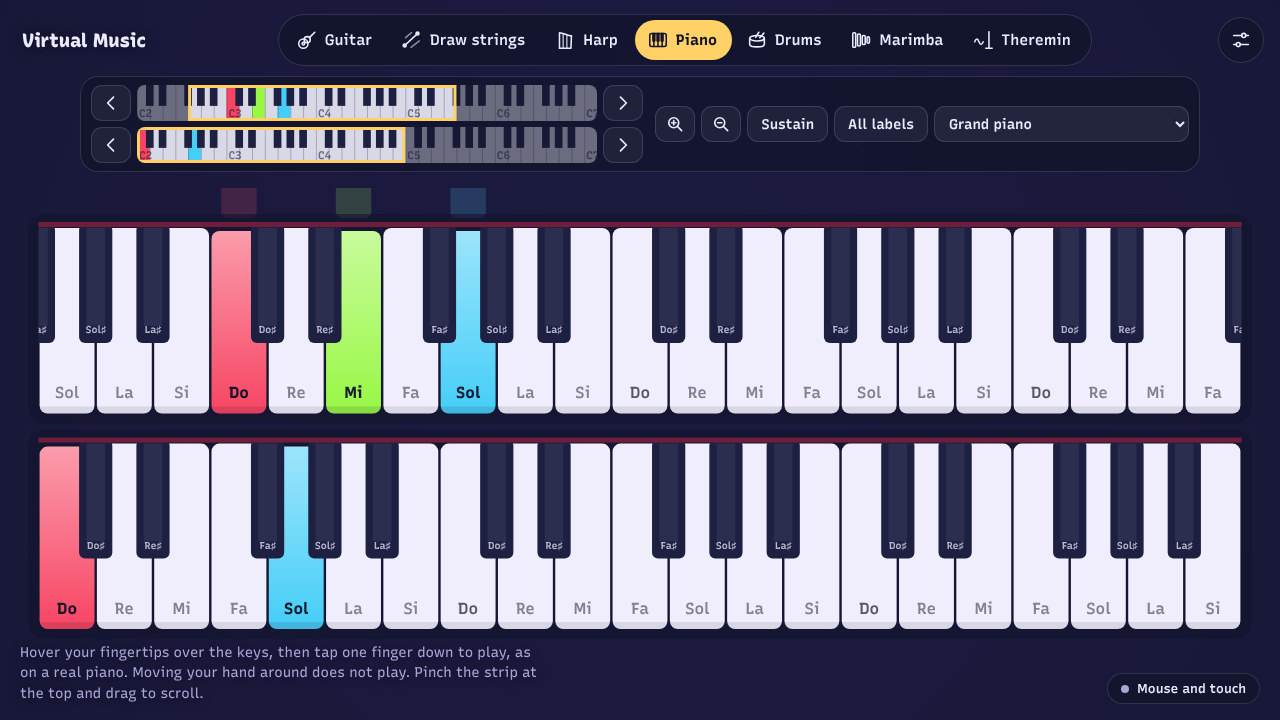
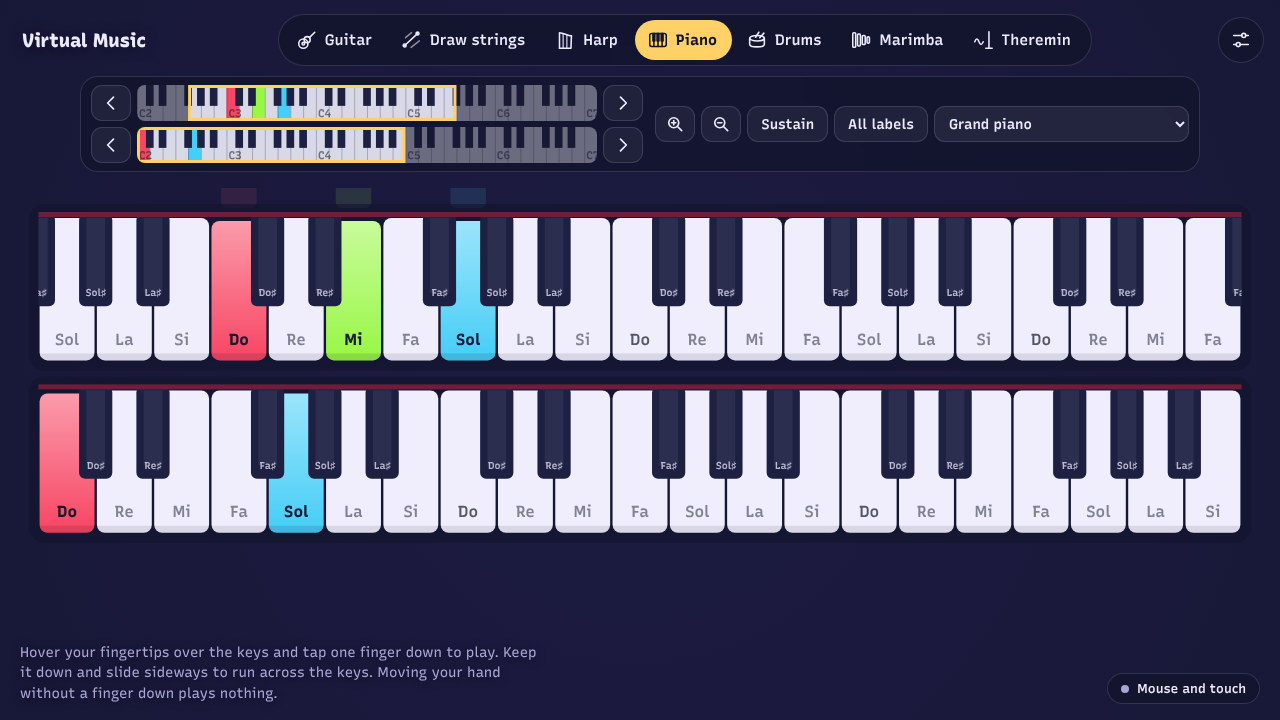
:sparkles: piano updated

Changed region(s): [[0.0, 0.3972, 0.9688, 0.9778], [0.0312, 0.275, 0.9688, 0.3361]]

diff --git a/src/instruments/piano.js b/src/instruments/piano.js
@@ -26,7 +26,7 @@ export class Piano extends Instrument {
   static id = 'piano';
   static label = 'Piano';
   static icon = '<rect x="3" y="5" width="18" height="14" rx="2"/><path d="M7.5 13v6M12 13v6M16.5 13v6"/><path d="M6.5 5h2v8h-2zM11 5h2v8h-2zM15.5 5h2v8h-2z" fill="currentColor"/>';
-  static hint = 'Hover your fingertips over the keys, then tap one finger down to play, as on a real piano. Moving your hand around does not play. Pinch the strip at the top and drag to scroll.';
+  static hint = 'Hover your fingertips over the keys and tap one finger down to play. Keep it down and slide sideways to run across the keys. Moving your hand without a finger down plays nothing.';
   static settings = [
     { key: 'sound', label: 'Sound', type: 'select', options: SOUND_OPTIONS, default: 'grand' },
     { key: 'mode', label: 'Layout', type: 'select', options: [['single', 'One keyboard'], ['double', 'Two keyboards, stacked']], default: 'single' },
@@ -34,6 +34,8 @@ export class Piano extends Instrument {
     { key: 'size', label: 'Keyboard size', type: 'select', options: [[49, '49 keys (C2 to C6)'], [61, '61 keys (C2 to C7)'], [76, '76 keys (E1 to G7)'], [88, '88 keys (A0 to C8)']], default: 61 },
     { key: 'labels', label: 'Key labels', type: 'select', options: LABEL_CYCLE.map((k) => [k, { off: 'Off', c: 'C keys only', white: 'White keys', all: 'All keys' }[k]]), default: 'c' },
     { key: 'notation', label: 'Label style', type: 'select', options: [['octave', 'C4, D4, E4'], ['letters', 'C, D, E'], ['solfege', 'Do, Re, Mi']], default: 'octave' },
+    { key: 'position', label: 'Keyboard position', type: 'select', options: [['high', 'Higher up'], ['middle', 'Middle (recommended for the camera)'], ['low', 'Bottom of the screen']], default: 'middle' },
+    { key: 'gliss', label: 'Slide a pressed finger to run across the keys', type: 'toggle', default: true },
     { key: 'press', label: 'Press keys by', type: 'select', options: [['tap', 'Tapping a finger down (recommended)'], ['dip', 'Lowering fingertips into the keys']], default: 'tap' },
     { key: 'fingers', label: 'Play with', type: 'select', options: [['all', 'All five fingers'], ['four', 'Four fingers, no thumbs'], ['index', 'Index fingers only']], default: 'all' },
     { key: 'sensitivity', label: 'Tap sensitivity', type: 'range', min: 0.5, max: 2, step: 0.05, default: 1 },
@@ -104,14 +106,20 @@ export class Piano extends Instrument {
     const st = this.stage;
     const top = navBottom + 16;
     const x = this.W * 0.03, w = this.W * 0.94;
-    const bottom = st.bottom - 6;
+    // Middle keeps the keyboard where hands rest comfortably in front of a laptop camera,
+    // with room below the keys so whole hands, wrists included, stay in view.
+    const pos = this.opts.position || 'middle';
+    const limit = st.bottom - 6;
+    const bottom = pos === 'low' ? limit : Math.min(limit, this.H * (pos === 'high' ? 0.62 : 0.74));
     if (this.rows.length === 1) {
-      const h = clamp(Math.min(this.H * 0.34, bottom - top - 70), 110, 300);
-      this.rows[0].setRect(x, bottom - h, w, h);
+      const h = clamp(Math.min(this.H * 0.3, bottom - top - 40), 100, 280);
+      const b = Math.min(limit, Math.max(bottom, top + 40 + h));
+      this.rows[0].setRect(x, b - h, w, h);
     } else {
-      const h = clamp((bottom - top - 40 - 30) / 2, 80, 230);
-      this.rows[1].setRect(x, bottom - h, w, h);
-      this.rows[0].setRect(x, bottom - h - 30 - h, w, h);
+      const h = clamp((bottom - top - 30 - 30) / 2, 80, 220);
+      const b = Math.min(limit, Math.max(bottom, top + 30 + 2 * h + 30));
+      this.rows[1].setRect(x, b - h, w, h);
+      this.rows[0].setRect(x, b - h - 30 - h, w, h);
     }
     this.trailTop = top;
   }
@@ -397,6 +405,29 @@ export class Piano extends Instrument {
     }
   }
 
+  /**
+   * Glissando: a pressed finger sliding sideways plays every key it passes, staying on the
+   * colour it started on (white keys, or black keys), as on a real piano. A little
+   * hysteresis at key edges stops a resting finger from flickering between two keys.
+   */
+  slide(fk, row, x, t) {
+    const cur = row.byMidi.get(fk.midi);
+    if (cur && Math.abs(x - row.centerX(cur)) < row.keyRect(cur).w * 0.62) return;
+    const k = fk.white ? row.whiteAt(x) : row.blackAt(x);
+    if (!k || k.midi === fk.midi) return;
+    const dir = Math.sign(k.midi - fk.midi);
+    for (let m = fk.midi + dir; m !== k.midi; m += dir) {
+      const passed = row.byMidi.get(m);
+      if (!passed || passed.white !== fk.white) continue;
+      this.noteOn(fk.row, m, fk.vel * 0.9, t);
+      this.noteOff(fk.row, m, t);
+    }
+    this.noteOff(fk.row, fk.midi, t);
+    this.noteOn(fk.row, k.midi, fk.vel * 0.95, t);
+    fk.midi = k.midi;
+    fk.x = x;
+  }
+
   update(hands, dt, t) {
     this.rows.forEach((r) => r.step(dt));
     this.ensureSamples();
@@ -418,7 +449,7 @@ export class Piano extends Instrument {
         const key = row && row.keyAt(ev.x, ev.y);
         if (!key) continue;
         const vel = this.opts.velocity === 'fixed' ? 0.7 : clamp(0.22 + ev.speed * 0.2, 0.18, 1);
-        this.fingerKeys.set(ev.id, { row: row.index, midi: key.midi, x: ev.x });
+        this.fingerKeys.set(ev.id, { row: row.index, midi: key.midi, x: ev.x, white: key.white, vel });
         this.noteOn(row.index, key.midi, vel, t);
       } else {
         const fk = this.fingerKeys.get(ev.id);
@@ -430,10 +461,18 @@ export class Piano extends Instrument {
     this.cursors = [];
     for (const c of res.cursors) {
       const fk = this.fingerKeys.get(c.id);
-      if (fk && Math.abs(c.x - fk.x) > this.rows[fk.row].ww * 1.5) {
-        // Sliding well off a held key lifts it.
-        this.noteOff(fk.row, fk.midi, t);
-        this.fingerKeys.delete(c.id);
+      if (fk) {
+        const r = this.rows[fk.row];
+        if (!r.contains(c.x, c.y, r.rect.h * 0.6)) {
+          // The hand left the keyboard with the finger still down: let go.
+          this.noteOff(fk.row, fk.midi, t);
+          this.fingerKeys.delete(c.id);
+        } else if (this.opts.gliss) {
+          this.slide(fk, r, c.x, t);
+        } else if (Math.abs(c.x - fk.x) > r.ww * 1.5) {
+          this.noteOff(fk.row, fk.midi, t);
+          this.fingerKeys.delete(c.id);
+        }
       }
       const row = this.rowAt(c.x, c.y, dip ? 0.2 : 0.35);
       if (!row) continue;

diff --git a/src/instruments/piano/keyboardRow.js b/src/instruments/piano/keyboardRow.js
@@ -101,6 +101,22 @@ export class KeyboardRow {
     return this.whites[clamp(wi, 0, this.nWhite - 1)] || null;
   }
 
+  /** White key under an x position, or null outside the keyboard. */
+  whiteAt(px) {
+    const r = this.rect;
+    if (px < r.x || px > r.x + r.w) return null;
+    return this.whites[clamp(Math.floor(this.start + (px - r.x) / this.ww), 0, this.nWhite - 1)] || null;
+  }
+
+  /** Black key under an x position, or null between black keys. */
+  blackAt(px) {
+    for (const k of this.blacks) {
+      const kr = this.keyRect(k);
+      if (px >= kr.x && px <= kr.x + kr.w) return k;
+    }
+    return null;
+  }
+
   centerX(k) {
     const kr = this.keyRect(k);
     return kr.x + kr.w / 2;

diff --git a/README.md b/README.md
@@ -30,7 +30,7 @@ It all runs in a browser tab, with no install, no account and no server. Open th
 - **Gestures that feel like the real thing:**
   - The guitar has a chord neck and a strum zone, and the strings sound in the order you cross them.
   - Drums detect a stick-like strike.
-  - The piano listens for individual finger taps, so moving your hand around never plays a note.
+  - The piano listens for individual finger taps, so moving your hand around never plays a note. Keep a finger down and slide to run across the keys.
 - **A proper piano:**
   - 61 keys by default (49, 76 or 88 in Settings), with zoom and scroll.
   - One keyboard or two stacked keyboards.
@@ -100,7 +100,7 @@ The app is a static site, so there is nothing to build:
 | 1 | **Guitar** | Hold your left hand over the neck to pick one of six chords. Strum across the strings with your right index finger. Faster strums are louder, and a downstroke sounds the strings low to high. Four chord sets: pop, folk, rock and blues. Acoustic, nylon or overdriven electric. |
 | 2 | **Draw strings** | Pinch thumb and index finger on **both** hands, then pull your hands apart to stretch a string between them. Let go to keep it. Longer strings play lower notes. Swipe across a string to pluck it. Pinching one hand never draws, so you can't draw by accident while playing. With a mouse, drag; on a touch screen, touch with two fingers. |
 | 3 | **Harp** | 12 to 24 strings tuned to the current key and scale. Sweep your fingers sideways. |
-| 4 | **Piano** | Hover your fingertips over the keys, then tap one finger down. See [the piano](#the-piano) below. |
+| 4 | **Piano** | Hover your fingertips over the keys, then tap one finger down. Keep it down and slide to run across the keys. See [the piano](#the-piano) below. |
 | 5 | **Drums** | Kick, snare, hi-hat, three toms, crash, ride and clap. Strike downward with your index fingers and stop on a drum. Harder strokes are louder. |
 | 6 | **Marimba** | Strike the bars like the drums. Marimba, vibraphone, glockenspiel or steel drum. |
 | 7 | **Theremin** | Your right hand's height sets the pitch and your left hand's height sets the volume. Pinch to go silent. Glide freely or snap to the scale. |
@@ -110,6 +110,10 @@ The harp, drawn strings, marimba and theremin all follow the **Key** and **Scale
 ### The piano
 
 **Playing with your hands.** Hold your hands over the keys as you would on a real piano: palms down, fingers relaxed. Then tap one finger down. A key plays only when a single finger moves down relative to its own knuckle. Moving your hands around, lowering them or tilting the whole hand plays nothing. Each fingertip over the keyboard shows a ring that fills as the finger goes down, and the key under it glows. Hold the finger down to hold the note, and faster taps play louder.
+
+**Glissando.** Keep a finger down and slide sideways to run across the keys, as on a real piano. A slide that starts on a white key plays white keys, and one that starts on a black key plays black keys. If you'd rather lift a key whenever your finger slides off it, turn off **Slide a pressed finger to run across the keys** in Settings.
+
+**Keyboard position.** By default the keyboard sits in the middle of the screen, so both hands fit in the camera view with your wrists visible. If that suits your camera better, choose **Higher up** or **Bottom of the screen** under **Keyboard position** in Settings.
 
 **Zoom and scroll.** The strip at the top shows the whole keyboard, with the part on screen outlined in gold.
 - **Scroll:** drag the strip, pinch it with your hand and slide sideways, or use the arrow buttons, the arrow keys or the mouse wheel.
